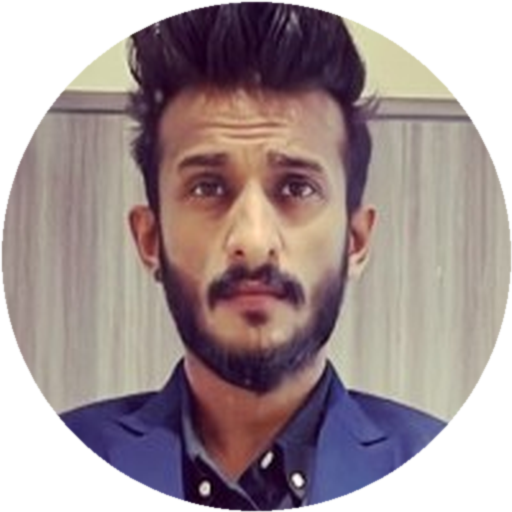
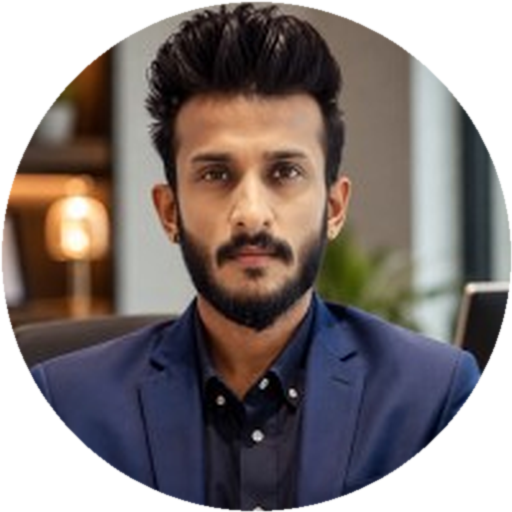
Sync profile photo with current LinkedIn headshot
Replace avatar assets with the latest LinkedIn office portrait and show
the same circular photo on the Resume profile header.

diff --git a/src/components/layout/InfoTemplate3D.tsx b/src/components/layout/InfoTemplate3D.tsx
@@ -1,5 +1,7 @@
 "use client";
 
+import Image from "next/image";
+
 /** 3D atmosphere is global - this template focuses content with glass panels. */
 export function InfoTemplate3D({
  eyebrow,
@@ -7,12 +9,14 @@ export function InfoTemplate3D({
  subtitle,
  children,
  actions,
+ avatarSrc,
 }: {
  eyebrow?: string;
  title: string;
  subtitle?: string;
  children: React.ReactNode;
  actions?: React.ReactNode;
+ avatarSrc?: string;
 }) {
  return (
  <div className="relative min-h-screen">
@@ -22,10 +26,26 @@ export function InfoTemplate3D({
  {eyebrow}
  </p>
  )}
- <h1 className="display mt-3 text-4xl neon-text md:text-6xl">{title}</h1>
- {subtitle && (
- <p className="mt-4 max-w-2xl text-lg text-slate-300">{subtitle}</p>
+ <div className="mt-3 flex flex-col gap-5 sm:flex-row sm:items-center">
+ {avatarSrc && (
+ <div className="relative h-24 w-24 shrink-0 overflow-hidden rounded-full border border-[color:rgba(var(--accent-rgb),0.5)] shadow-[0_0_28px_rgba(var(--accent-rgb),0.28)] md:h-28 md:w-28">
+ <Image
+ src={avatarSrc}
+ alt={title}
+ width={112}
+ height={112}
+ className="h-full w-full object-cover"
+ priority
+ />
+ </div>
  )}
+ <div className="min-w-0">
+ <h1 className="display text-4xl neon-text md:text-6xl">{title}</h1>
+ {subtitle && (
+ <p className="mt-3 max-w-2xl text-lg text-slate-300">{subtitle}</p>
+ )}
+ </div>
+ </div>
  {actions && <div className="mt-6 flex flex-wrap gap-3">{actions}</div>}
  <div className="mt-12 space-y-8">{children}</div>
  </div>

diff --git a/src/app/resume/page.tsx b/src/app/resume/page.tsx
@@ -16,6 +16,7 @@ export default function ResumePage() {
  eyebrow="RESUME · PDF SOURCE ONLY"
  title={r.name}
  subtitle={r.title}
+ avatarSrc="/profile/tushant-circle.png"
  actions={
  <>
  <a
